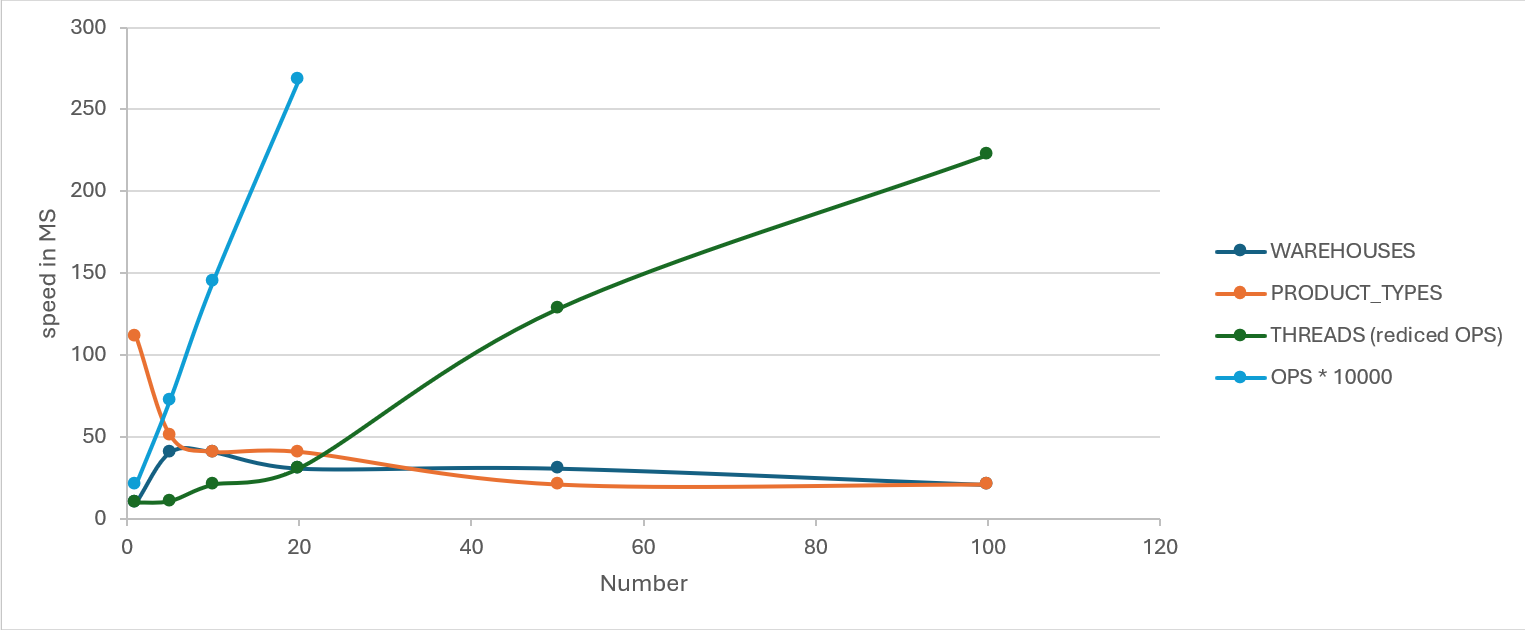
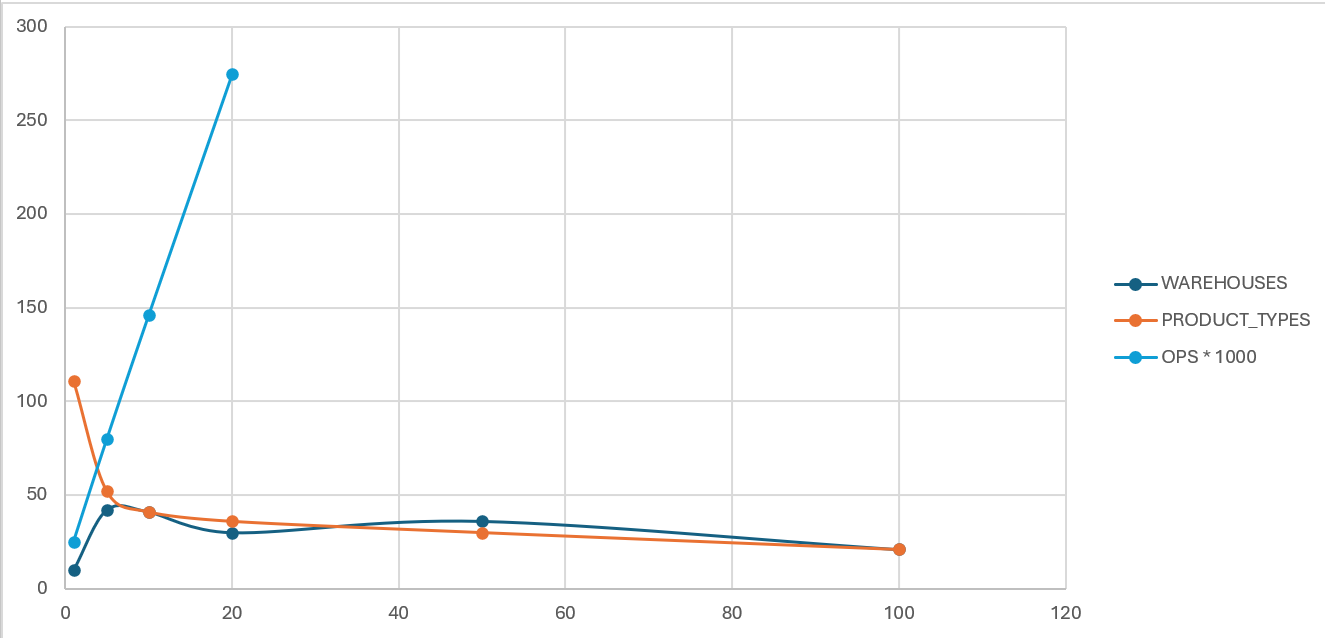
lab 1 ppd done

diff --git a/semester 5/PPD/Lab1-bonus/main.cpp b/semester 5/PPD/Lab1-bonus/main.cpp
@@ -1,0 +1,53 @@
+#include <mutex>
+
+template <typename T> class Node {
+private:
+	std::mutex prev_mutex, next_mutex;
+
+public:
+	Node* prev, *next;
+	T data;
+
+	explicit Node(T data, Node* prev = nullptr, Node* next = nullptr)
+		: prev(prev), next(next), data(data) {}
+
+	static Node* move_next(Node* head) {
+		std::lock_guard<std::mutex> lock(head->next_mutex);
+		return head->next;
+	}
+
+	static Node* move_prev(Node* head) {
+		std::lock_guard<std::mutex> lock(head->prev_mutex);
+		return head->prev;
+	}
+
+	/// we assume that head is not nullptr
+	Node* insert_after(Node* head, T data) {
+		std::lock_guard<std::mutex> head_lock(head->next_mutex);
+		Node* next_node = head->next;
+
+		Node* new_node = new Node<T>(data, head, next_node);
+
+		if (next_node != nullptr) {
+			std::lock_guard<std::mutex> next_lock(next_node->prev_mutex);
+			next_node->prev = new_node;
+		}
+		head->next = new_node;
+		return new_node;
+	}
+
+	/// we assume that head is not nullptr
+	Node* insert_before(Node* head, T data) {
+		std::lock_guard<std::mutex> head_lock(head->prev_mutex);
+		Node* prev_node = head->prev;
+
+		Node* new_node = new Node<T>(data, head, prev_node);
+		if (prev_node != nullptr) {
+			std::lock_guard<std::mutex> prev_lock(prev_node->next_mutex);
+			prev_node->next = new_node;
+		}
+
+		head->prev = new_node;
+		return new_node;
+	}
+};

diff --git a/semester 5/PPD/Lab1/main.cpp b/semester 5/PPD/Lab1/main.cpp
@@ -70,7 +70,7 @@ public:
       }
 
       source.amount -= amount;
-      source.amount += amount;
+      destination.amount += amount;
 
       consistent_unlock(source, destination);
       return true;

diff --git a/semester 5/PPD/Lab1-bonus/docs.md b/semester 5/PPD/Lab1-bonus/docs.md
@@ -1,0 +1,27 @@
+## Concurrent double linked list
+
+We all know what a double linked list, every node has a reference to the node in front and the node behind the current node.
+
+We have to managed four scenarios!
+### Move Next/Previous
+Given a pointer to the current element, get the position of the next.
+
+What scenarios do we need to treat hear? Well... given the fact that there might be an operation happening on the element direct next to this one or even an insert after this one we can assume that there might be a mutex on the next pointer of every node.
+
+Because of this the structure of a node will look (for now) something like this:
+```c++
+class Node<T> {
+    Node* prev;
+    std::mutex prev_mutex;
+    
+    Node* next;
+    std::mutec next_mutex;
+    
+    T value;
+}
+```
+
+### Insert After
+Now this is the tricky part. We need an order: first lock the node that you will change and after lock urself. NO! This will not work!
+
+The easy solution would be just to use `std::scoped_lock`.

diff --git a/semester 5/PPD/Lab1/test.md b/semester 5/PPD/Lab1/test.md
@@ -14,4 +14,8 @@ Thous were the default values. To see the impact of each I changed each from 1 t
 <img src="./stats.png" width="1000">
 
 ### Locking every warehouse separately
+<img src="./stats_big_lock.png" width="1000">
+
+The "missing" data is because the values were exponentially bigger and the values that we have show the rapid increase!
+
 > [!NOTE] This test were done on an 16GB RAM, NVIDIA GTX 1650 with a Ryzen 5 processor laptop
